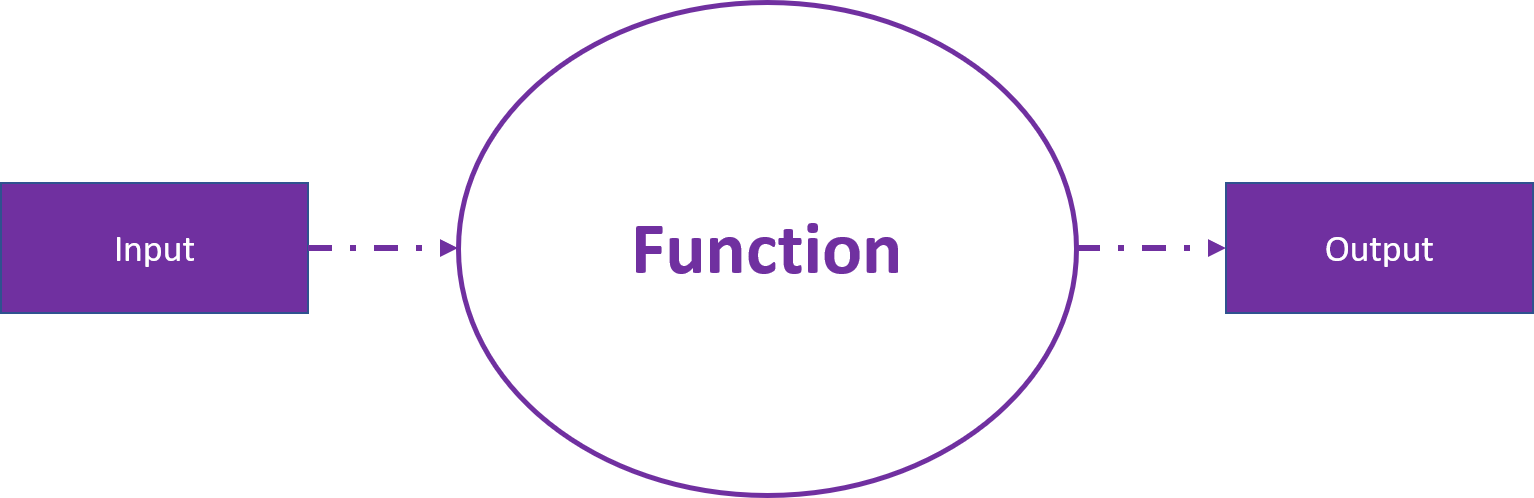
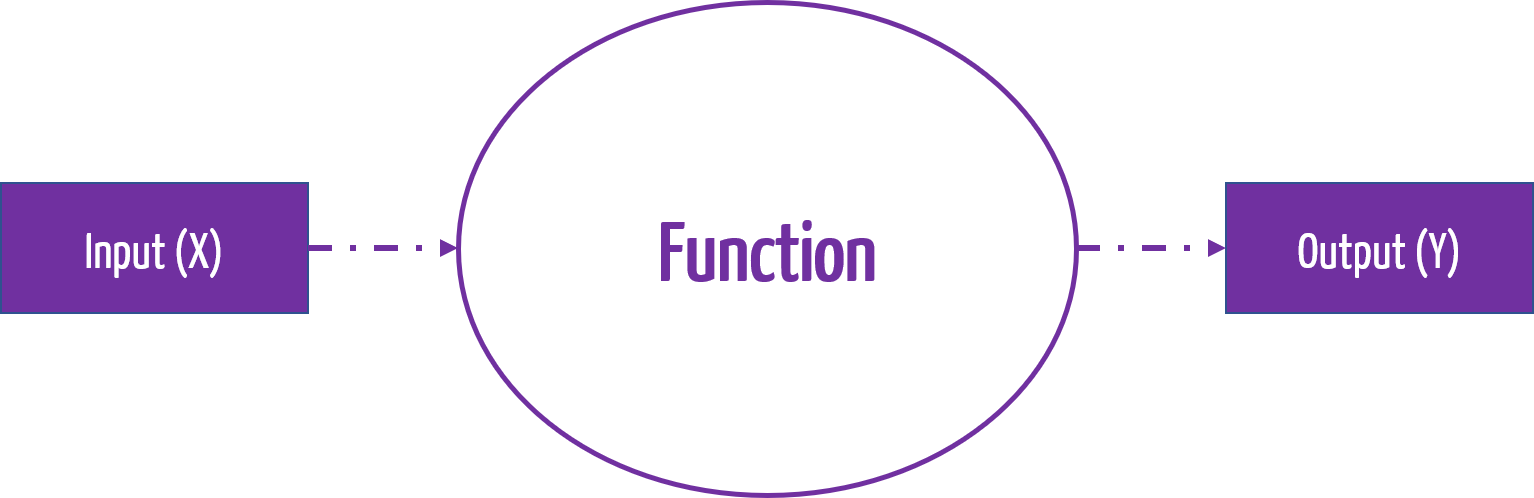
slide draft 1

Changed region(s): [[0.3983, 0.4217, 0.6128, 0.5723], [0.8272, 0.4518, 0.9498, 0.5723], [0.0306, 0.4518, 0.1532, 0.5422]]

diff --git a/index.html b/index.html
@@ -76,13 +76,13 @@ class: middle center bg-main1
 
 &lt;br&gt;
 
-### Machine learning is concerned with finding functions that best **predict** outputs (responses), given data inputs (predictors).
+### Machine learning is concerned with finding functions `\(Y=f(X)+\epsilon\)` that best **predict** outputs (responses), given data inputs (predictors).
 
 &lt;br&gt;
 
 &lt;center&gt;
 
-  &lt;img src="images/ml-process.png", width="60%"&gt;
+  &lt;img src="images/ml-process.png", width="50%"&gt;
 
 &lt;/center&gt;
 
@@ -120,7 +120,6 @@ class: split-two white
 
 ### - Goal: train a model using known class labels to predict class or value label for a new data point.
 
-&lt;br&gt;
 
 ## .orange[Unsupervised Learning]
 
@@ -181,7 +180,7 @@ head(data)
 ## 6  12.08696 26.39895
 ```
 
-#### What shape is the relationship? Can we build a function to predict the value of a new data point?
+### What shape is the relationship? Can we build a function to predict the value of a new data point?
 
 ]]
 
@@ -210,9 +209,9 @@ class: pink-code
 
 &lt;br&gt;
 
-### We can use a .purple[**linear function**] to describe our data and .purple[**predict**] a new data point. The question is, what is the .purple[*optimal line*]?
+### We can use a .purple[**linear function**] to describe our data and .purple[**predict**] a new data point. The question is, what is the .purple[*optimal line*] ?
 
-&lt;br&gt;
+--
 
 ### One way to do this is find the slope and intercept that .purple[*minimise*] the sum of the squared residuals between the line and our data points:
 
@@ -220,7 +219,10 @@ class: pink-code
 &lt;img src="images/rss.png", width="25%"&gt;
 &lt;/center&gt;
 
+
 ### We can visualise this optimisation process using a .purple[**Shiny App**] [here](http://43.240.99.178:3838/sample-apps/LinearRegression/).
+
+--
 
 
 ### .purple[<i class="fab  fa-r-project "></i>] performs this optimisation process for us when we call the `lm` function.
@@ -393,6 +395,8 @@ class: split-two white
 
 .column.bg-main1[.content[
 
+&lt;br&gt;
+
 # Modelling Binary Outcomes
 
 &lt;br&gt;
@@ -402,7 +406,7 @@ class: split-two white
 
 ```r
 data &lt;- read.csv("data/Spiders.csv")
-head(data)
+head(data,3)
 ```
 
 ```
@@ -410,9 +414,6 @@ head(data)
 ## 1     0.245       0
 ## 2     0.247       0
 ## 3     0.285       1
-## 4     0.299       1
-## 5     0.327       1
-## 6     0.347       1
 ```
 
 ### Can we use `lm` to predict the class for a new data point?
@@ -436,7 +437,9 @@ class: split-two white
 
 .column.bg-main1[.content[
 
-## To model **binary data**, we need to **link** our **predictors** to our response using a *link function*.
+&lt;br&gt;
+
+## To model **binary data**, we need to .orange[link] our **predictors** to our response using a *link function*.
 
 &lt;br&gt;
 
@@ -674,6 +677,8 @@ class: split-60 white
 
 .column[.content[
 
+&lt;br&gt;
+
 
 ```r
 fit &lt;-  glm(data=data.new, 
@@ -701,6 +706,8 @@ fit &lt;-  glm(data=data.new,
 class: split-60 white
 
 .column[.content[
+
+&lt;br&gt;
 
 
 ```r
@@ -768,7 +775,7 @@ class: split-two white
 
 ```r
 data&lt;- read.csv("data/Exam.csv", header=T)
-head(data)
+head(data,4)
 ```
 
 ```
@@ -777,8 +784,6 @@ head(data)
 ## 2 30.28671 43.89500     0
 ## 3 35.84741 72.90220     0
 ## 4 60.18260 86.30855     1
-## 5 79.03274 75.34438     1
-## 6 45.08328 56.31637     0
 ```
 
 ]]
@@ -846,10 +851,10 @@ class: split-two white
 ### We can plot the **decision boundary** on our scatterplot for `Exam1` vs `Exam2` by looking at the set of points for which our classifier predicts `$$p(y=1|\beta_0 + \beta_1 \text{Exam1} + \beta_2 \text{Exam2}) \geq 0.5$$`
 
 
-### Given the `logit` link, this is true when 
+#### Given the `logit` link, this is true when 
 `$$\beta_0 + \beta_1 \text{Exam1} + \beta_2 \text{Exam2} \geq 0$$`
 
-### This is the **decision boundary** and can be rearranged as 
+#### This is the **decision boundary** and can be rearranged as 
 $$ \text{Exam2} \geq \frac{-\beta_0}{\beta_2} + \frac{-\beta_1}{\beta_2} \text{Exam 1} $$
 
 ]]
@@ -902,7 +907,7 @@ class: split-two white
 
 ```r
 data &lt;- read.csv("data/Microchips.csv")
-head(data)
+head(data,4)
 ```
 
 ```
@@ -911,8 +916,6 @@ head(data)
 ## 2 -0.092742 0.68494     1
 ## 3 -0.213710 0.69225     1
 ## 4 -0.375000 0.50219     1
-## 5 -0.513250 0.46564     1
-## 6 -0.524770 0.20980     1
 ```
 
 
@@ -1009,7 +1012,7 @@ class: split-two white
 
 &lt;br&gt;
 
-Next, we need to give the function new data points, as the `knn` function fits and predicts at the same time. We will use the `MASS` package to generate a grid of new points to predict the class of.
+### Next, we need to give the function new data points, as the `knn` function fits and predicts at the same time. We will use the `MASS` package to generate a grid of new points to predict the class of.
 
 
 ```r
@@ -1210,6 +1213,8 @@ class: pink-code
 
 # .purple[Decision Trees in <i class="fab  fa-r-project "></i> using `rpart`]
 
+&lt;br&gt;
+
 ## Consider the `iris` dataset
 
 
@@ -1316,7 +1321,7 @@ New_Data &lt;-data.frame(Sepal.Length= 5.0, Sepal.Width = 3.9,
 
 &lt;br&gt;
 
-### Using `predict`, we can predict the class of a new data point, much like in the previous examples. Alternatively - we could have predicted using the tree ourselves!  
+#### Using `predict`, we can predict the class of a new data point, much like in the previous examples. Alternatively - we could have predicted using the tree ourselves!  
 
 ]]
 
@@ -1356,7 +1361,37 @@ class: middle center
 
 ---
 
-# Random Forest
+class: split-two white
+
+.column.bg-main1[.content[
+
+
+&lt;br&gt;
+# From bagging to Random Forest
+
+&lt;br&gt;
+
+### With Random Forest we randomly select a subset of predictors to use for each tree.
+
+&lt;br&gt;
+
+### The reason? Tree correlation. 
+
+&lt;br&gt;
+
+### If one or a few features are very strong predictors for the response variable, then these features will be selected in many of the trees, causing them to become correlated. .orange[This can reduce the accuracy of the ensemble.]
+
+
+]]
+
+.column[.content.vmiddle.center[
+
+&lt;img src="images/randomforest.png", width="85%"&gt;
+
+###### .black[Source:] [GSS](http://www.globalsoftwaresupport.com/random-forest-classifier-bagging-machine-learning/)
+
+]]
+
 
 
 ---
@@ -1438,14 +1473,6 @@ class: pink-code
 
 ```r
 library(multiDA)
-class(SRBCT$vy)
-```
-
-```
-## [1] "factor"
-```
-
-```r
 table(SRBCT$vy)
 ```
 
@@ -1492,6 +1519,8 @@ class: split-two white
 
 .column[.content[
 
+&lt;br&gt;
+
 
 ```r
 *SRBCT.rf &lt;- randomForest(SRBCT$mX, SRBCT$vy)
@@ -1530,6 +1559,8 @@ SRBCT.rf
 class: split-two white
 
 .column[.content[
+
+&lt;br&gt;
 
 
 ```r
@@ -1575,7 +1606,6 @@ class: split-two white
 ### - Regularised GLMs (`glmnet`)
 ### - Neural Networks (`neuralnet`,`keras`)
 
-##### and more...
 
 
 
@@ -1615,6 +1645,11 @@ class: bg-main1
 ## - Mark Greenaway for helping hosting my shiny app.
 ## - The R-Ladies Sydney organisers - you guys rock!
 
+## <span>&lt;i class="fas  fa-thumbs-up fa-5x faa-float animated "&gt;&lt;/i&gt;</span>
+
+
+
+
 ---
 class: split-two white
 
@@ -1623,7 +1658,7 @@ class: split-two white
 
 # Stay tuned for .orange[Part 2] next Wednesday - 'Assessing Model Performance'!
 
-# <span>&lt;i class="fas  fa-cogs fa-5x faa-float animated "&gt;&lt;/i&gt;</span>
+# <span>&lt;i class="fas  fa-cogs fa-5x faa-vertical animated "&gt;&lt;/i&gt;</span>
 
 
 ]]
